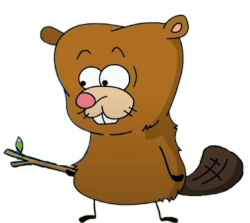
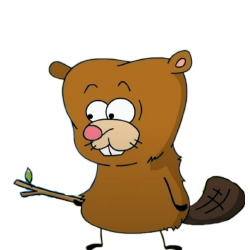
updated beavers, applied animation to both

Changed region(s): [[0.0, 0.0538, 0.98, 1.0]]

diff --git a/css/style.css b/css/style.css
@@ -1,8 +1,38 @@
+.beavers__beaver-female {
+  position: absolute;
+  bottom: 16%;
+  left: 13%;
+  width: 11%;
+  height: 11%;
+  background-image: url("../images/beavers/beaver-female/beaver-female-start.png");
+  background-repeat: no-repeat;
+  background-size: contain;
+  animation: beaverFemaleMove 1s step-start infinite;
+  z-index: 690;
+}
+
+@keyframes beaverFemaleMove {
+  0% {
+    background-image: url("../images/beavers/beaver-female/beaver-female-start.png");
+  }
+  20% {
+    background-image: url("../images/beavers/beaver-female/beaver-female-end.png");
+  }
+  40% {
+    background-image: url("../images/beavers/beaver-female/beaver-female-start.png");
+  }
+  60% {
+    background-image: url("../images/beavers/beaver-female/beaver-female-end.png");
+  }
+  80% {
+    background-image: url("../images/beavers/beaver-female/beaver-female-start.png");
+  }
+}
 .beavers__beaver-male {
   position: absolute;
   bottom: 16%;
   left: 8%;
-  width: 15%;
+  width: 12%;
   height: 12%;
   background-image: url("../images/beavers/beaver-male/beaver-male-start.png");
   background-repeat: no-repeat;

diff --git a/css/components/_beaver-female.scss b/css/components/_beaver-female.scss
@@ -1,0 +1,36 @@
+.beavers {
+    &__beaver-female {
+        position: absolute;
+        bottom: 16%;
+        left: 13%;
+        width: 11%;
+        height: 11%;
+        background-image: url("../images/beavers/beaver-female/beaver-female-start.png");
+        background-repeat: no-repeat;
+        background-size: contain;
+        animation: beaverFemaleMove 1s step-start infinite;
+        z-index: 690;
+    }
+}
+
+@keyframes beaverFemaleMove {
+    0% {
+        background-image: url("../images/beavers/beaver-female/beaver-female-start.png");
+    }
+
+    20% {
+        background-image: url("../images/beavers/beaver-female/beaver-female-end.png");
+    }
+
+    40% {
+        background-image: url("../images/beavers/beaver-female/beaver-female-start.png");
+    }
+
+    60% {
+        background-image: url("../images/beavers/beaver-female/beaver-female-end.png");
+    }
+
+    80% {
+        background-image: url("../images/beavers/beaver-female/beaver-female-start.png");
+    }
+}

diff --git a/css/components/_beaver-male.scss b/css/components/_beaver-male.scss
@@ -3,7 +3,7 @@
         position: absolute;
         bottom: 16%;
         left: 8%;
-        width: 15%;
+        width: 12%;
         height: 12%;
         background-image: url("../images/beavers/beaver-male/beaver-male-start.png");
         background-repeat: no-repeat;
